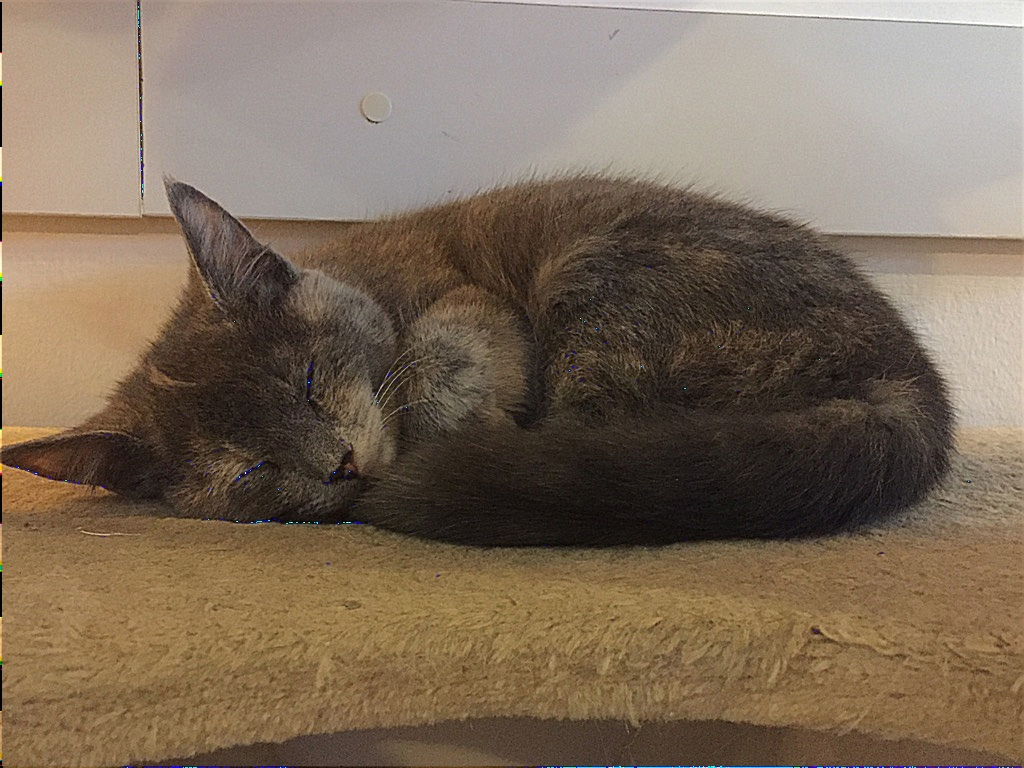
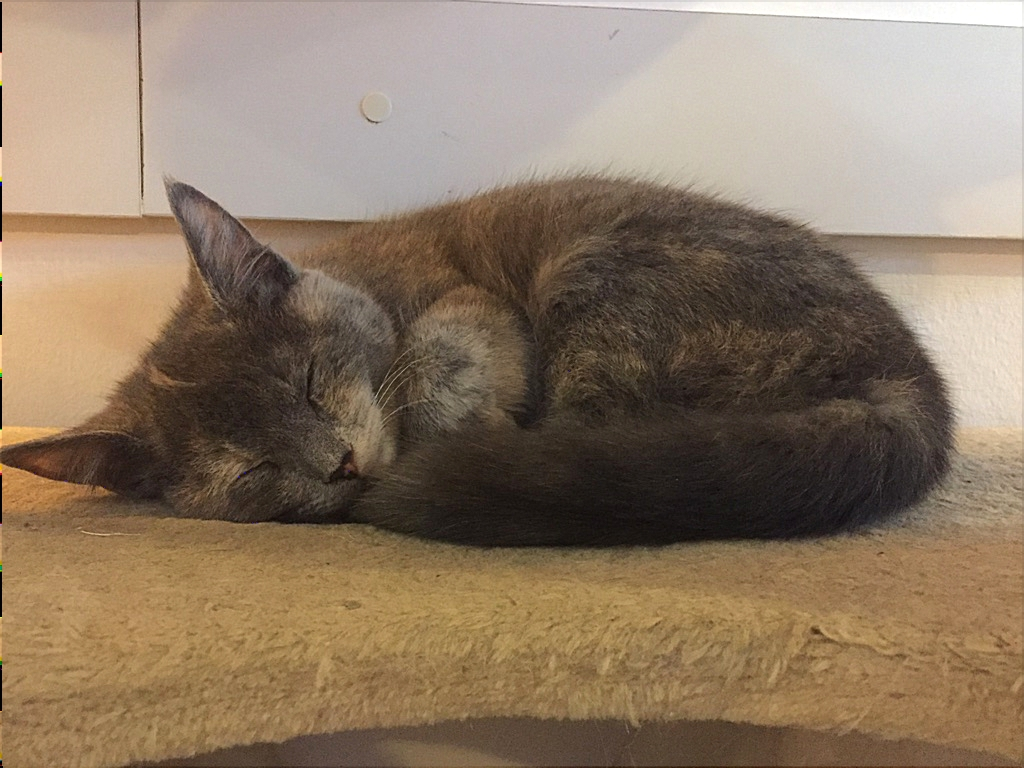
hw2 update

diff --git a/src/R2Image.cpp b/src/R2Image.cpp
@@ -402,11 +402,11 @@ void R2Image::
 Sharpen()
 {
   // Sharpen an image using a linear filter. Use a kernel of your choosing.
-  float kernel[5][5] = {{-0.07,  -0.07, -0.07, -0.07, -0.07},
-                        {-0.07, -0.009, -0.009, -0.009, -0.07},
-                        {-0.07, -0.009, 2.15    , -0.009, -0.07},
-                        {-0.07, -0.009, -0.009, -0.009, -0.07},
-                        {-0.07, -0.07, -0.07, -0.07, -0.07}
+  float kernel[5][5] = {{-0.03,  -0.03, -0.03, -0.03, -0.03},
+                        {-0.03, -0.005, -0.005, -0.005, -0.03},
+                        {-0.03, -0.005, 1.6   , -0.005, -0.03},
+                        {-0.03, -0.005, -0.005, -0.005, -0.03},
+                        {-0.03, -0.03, -0.03, -0.03, -0.03}
                       };
 
   R2Image tempImg(*this);
